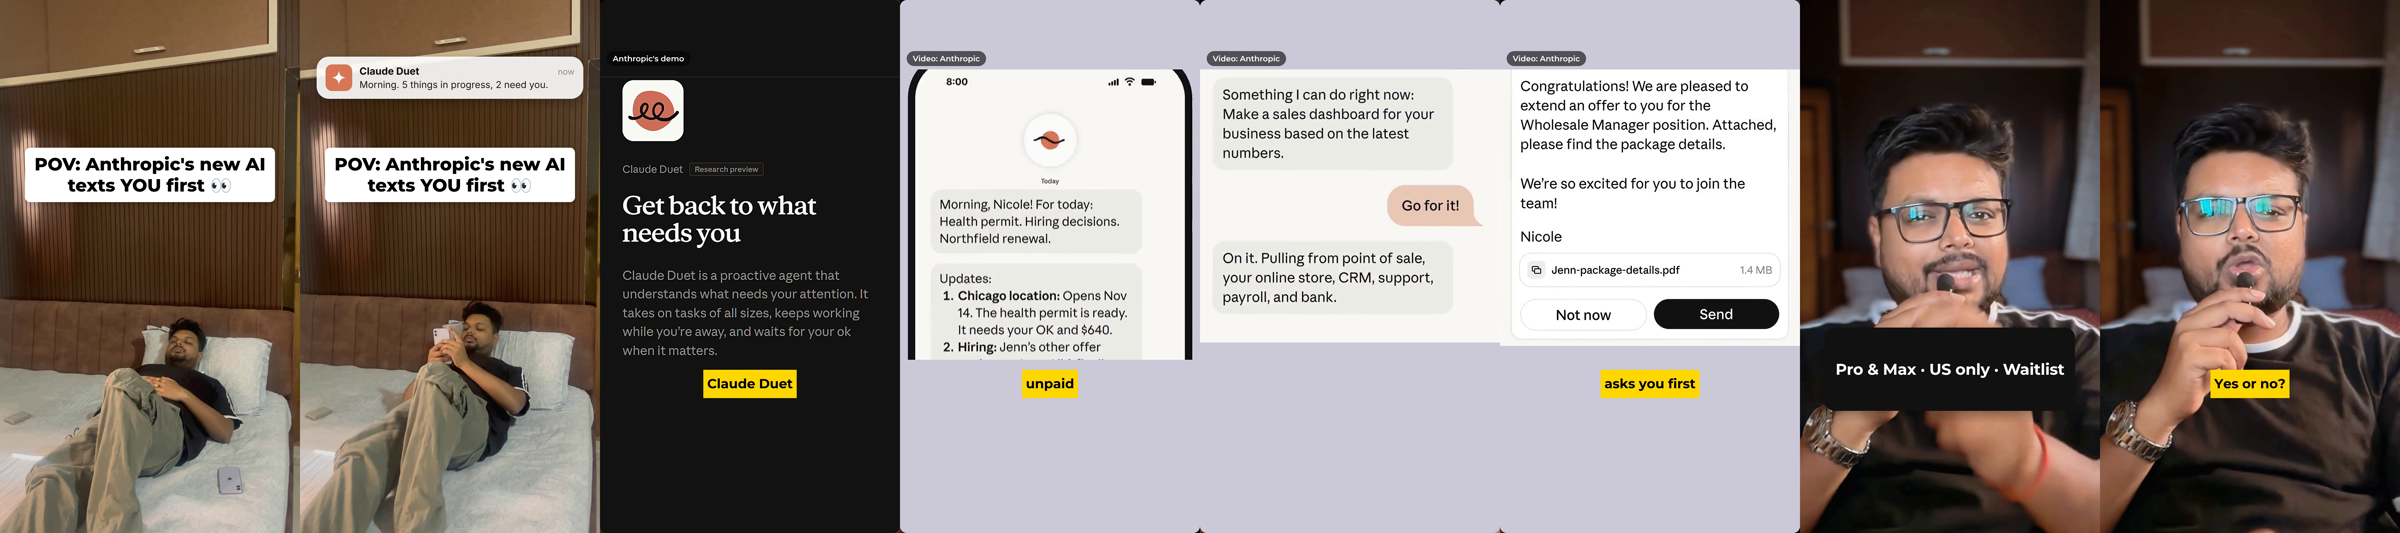
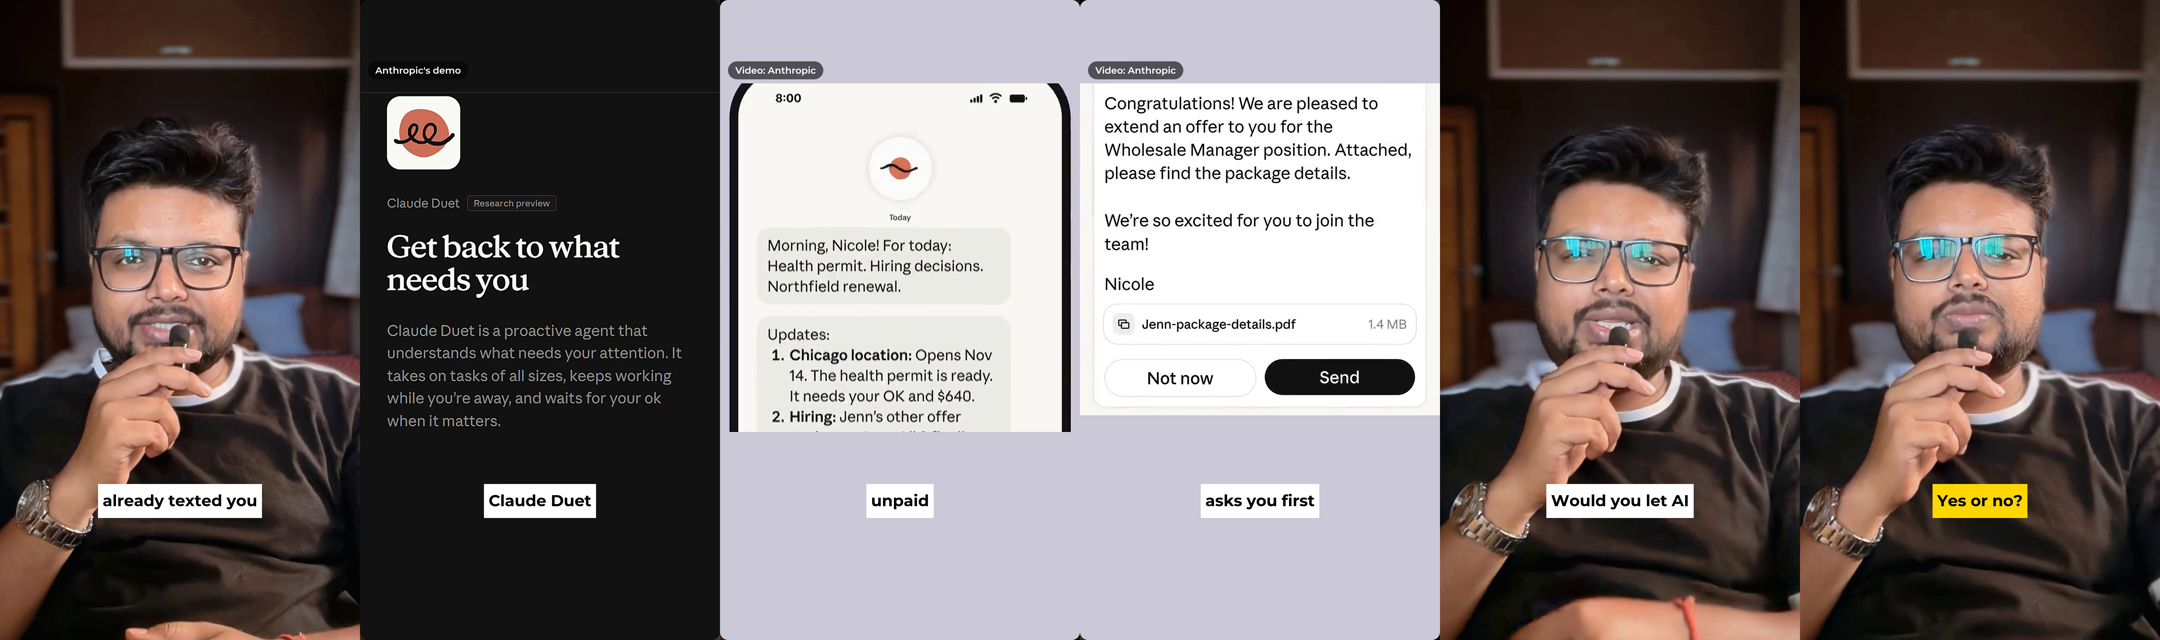
Lower reel subtitles and keep yellow only for the closing question
Claude-Session: https://claude.ai/code/session_01SS8SihpTGY2FphAtc4G6NN

diff --git a/duet_edit/scripts/make_ass.py b/duet_edit/scripts/make_ass.py
@@ -19,7 +19,7 @@ for k in range(len(ev)):              # hold each chunk until the next starts (i
 ev[-1][1] = TOTAL
 out = []
 for s, e, t, hl in ev:
-    if not hl:                         # plain chunks are hidden under inserts / access card
+    if not hl:                         # non-key chunks are hidden under inserts / access card
         for hs, he in HIDE:
             if s < he and e > hs:
                 if s >= hs: s = max(s, he)
@@ -36,8 +36,8 @@ ScaledBorderAndShadow: yes
 
 [V4+ Styles]
 Format: Name, Fontname, Fontsize, PrimaryColour, SecondaryColour, OutlineColour, BackColour, Bold, Italic, Underline, StrikeOut, ScaleX, ScaleY, Spacing, Angle, BorderStyle, Outline, Shadow, Alignment, MarginL, MarginR, MarginV, Encoding
-Style: Main,Montserrat,74,&H00000000,&H00000000,&H00FFFFFF,&H00FFFFFF,-1,0,0,0,100,100,0,0,3,14,0,2,60,60,500,1
-Style: Highlight,Montserrat,74,&H00000000,&H00000000,&H0000D7FF,&H0000D7FF,-1,0,0,0,100,100,0,0,3,14,0,2,60,60,500,1
+Style: Main,Montserrat,74,&H00000000,&H00000000,&H00FFFFFF,&H00FFFFFF,-1,0,0,0,100,100,0,0,3,14,0,2,60,60,380,1
+Style: Highlight,Montserrat,74,&H00000000,&H00000000,&H0000D7FF,&H0000D7FF,-1,0,0,0,100,100,0,0,3,14,0,2,60,60,380,1
 
 [Events]
 Format: Layer, Start, End, Style, Name, MarginL, MarginR, MarginV, Effect, Text
@@ -45,5 +45,5 @@ Format: Layer, Start, End, Style, Name, MarginL, MarginR, MarginV, Effect, Text
 with open(sys.argv[1], "w") as f:
     f.write(hdr)
     for s, e, t, hl in out:
-        f.write(f"Dialogue: 0,{ts(s)},{ts(e)},{'Highlight' if hl else 'Main'},,0,0,0,,{t}\n")
+        f.write(f"Dialogue: 0,{ts(s)},{ts(e)},{'Highlight' if t == 'Yes or no?' else 'Main'},,0,0,0,,{t}\n")
 for s, e, t, hl in out: print(f"{s:6.2f}-{e:6.2f} {'[HL] ' if hl else ''}{t}")
